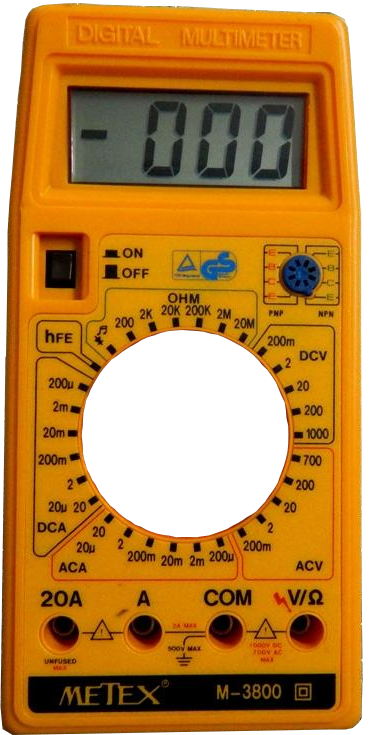
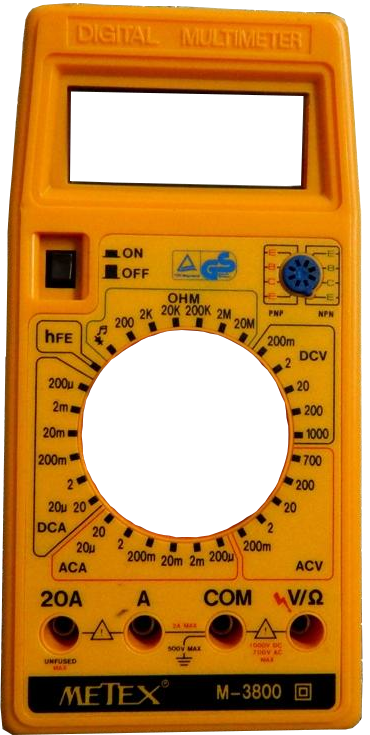
Added volts and amps display on mulimeters

Changed region(s): [[0.1784, 0.1197, 0.8324, 0.2694]]

diff --git a/frontend/static/js/index.js b/frontend/static/js/index.js
@@ -45,7 +45,20 @@ const multimeterMode = {
   10: { degree: 336, mode: "DCA 2m" },
   11: { degree: 348, mode: "DCA 200u" },
 };
-let rotationsKnob1 = 1;
+
+const knob1Voltage = {
+  0: { varistor: 0, photoresistor: 0 },
+  1: { varistor: 37.5, photoresistor: 1.5 },
+  2: { varistor: 37.5*2, photoresistor: 3 },
+  3: { varistor: 37.5*3, photoresistor: 5 },
+  4: { varistor: 37.5*4, photoresistor: 8 },
+  5: { varistor: 37.5*5, photoresistor: 11 },
+  6: { varistor: 37.5*6, photoresistor: 16 },
+  7: { varistor: 37.5*7, photoresistor: 20 },
+  8: { varistor: 300, photoresistor: 24 },
+};
+
+let rotationsKnob1 = 0;
 let rotationsKnob2 = 1;
 let rotationsMultimeterKnob1 = 1;
 let currentMode = mode[0];
@@ -53,11 +66,80 @@ let currentMultimeterMode = multimeterMode[0].mode;
 let rotationsMultimeterKnob2 = 1;
 let currentMultimeterMode2 = multimeterMode[0].mode;
 let chartInstance;
+let multimeterDisplay1 = document.getElementById("multimeter1-value");
+let multimeterDisplay2 = document.getElementById("multimeter2-value");
+let multimeter1Active = true;
+let multimeter2Active = true;
+let resistance = 1000;
+
+
+function getDisplayValue(currentMultimeterMode) {
+  if (currentMode === "OFF") return "OFF";
+  switch (currentMultimeterMode) {
+    case "OFF":
+      return "OFF";
+    case "DCV 200m":
+      return calculateDisplayValue(getVoltage(), 0.2, 3);
+    case "DCV 2":
+      return calculateDisplayValue(getVoltage(), 2, 3);
+    case "DCV 20":
+      return calculateDisplayValue(getVoltage(), 20, 2);
+    case "DCV 200":
+      return calculateDisplayValue(getVoltage(), 200, 1);
+    case "DCV 1000":
+      return calculateDisplayValue(getVoltage(), 1000, 0);
+    case "DCA 20":
+      return calculateDisplayValue(getVoltage()/resistance, 20, 1)
+    case "DCA 2":
+      return calculateDisplayValue(getVoltage()/resistance, 2, 2)
+    case "DCA 200m":
+      return calculateDisplayValue(getVoltage()/resistance, 0.2, 3)
+    case "DCA 20m":
+      return calculateDisplayValue(getVoltage()/resistance, 0.02, 3)
+    case "DCA 2m":
+      return calculateDisplayValue(getVoltage()/resistance, 0.002, 3)
+    case "DCA 200u":
+      return calculateDisplayValue(getVoltage()/resistance, 0.0002, 3)
+    default:
+      return 'OFF'
+  }
+}
+
+function calculateDisplayValue(value, range, fix){
+  if (value > range) return "0L";
+  return valueToFixed(value, fix);
+}
+
+function valueToFixed(value, fix) {
+  if (typeof value === 'number') return value.toFixed(fix);
+}
+
+function getVoltage() {
+  let voltage = "OFF";
+  if (currentMode === "PHOTORESISTOR") {
+    voltage = knob1Voltage[rotationsKnob1].photoresistor;
+  } else if (currentMode === "VARISTOR") {
+    voltage = knob1Voltage[rotationsKnob1].varistor;
+  }
+  console.log("Voltage:", voltage); // sprawdzanko
+  return voltage;
+}
+
+function updateMultimetersDisplay() {
+  if (multimeter1Active) {
+  multimeterDisplay1.textContent = getDisplayValue(currentMultimeterMode);
+  }
+  if (multimeter2Active) {
+  multimeterDisplay2.textContent = getDisplayValue(currentMultimeterMode2);
+  }
+}
 
 knob1.addEventListener("mousedown", () => {
-  knob1.style.transform = `rotate(${rotationsKnob1 * 45}deg)`;
-  if (rotationsKnob1 === 8) rotationsKnob1 = 1;
+  if (rotationsKnob1 === 8) rotationsKnob1 = 0;
   else rotationsKnob1++;
+  knob1.style.transform = `rotate(${270 + rotationsKnob1 * 22.5}deg)`;
+  console.log("Rotations knob1:", rotationsKnob1); // sprawdzanko
+  updateMultimetersDisplay();
 });
 
 knob2.addEventListener("mousedown", () => {
@@ -69,8 +151,8 @@ knob2.addEventListener("mousedown", () => {
     currentMode = mode[rotationsKnob2];
     rotationsKnob2++;
   }
-
   console.log("Current Mode:", currentMode); // sprawdzanko
+  updateMultimetersDisplay();
   updateChartByMode();
 });
 
@@ -83,6 +165,8 @@ multimeterKnob1.addEventListener("mousedown", () => {
     currentMultimeterMode = multimeterMode[rotationsMultimeterKnob1].mode;
     rotationsMultimeterKnob1++;
   }
+  updateMultimetersDisplay();
+  console.log("Current Multimeter1 Mode:", currentMultimeterMode);
 });
 multimeterKnob2.addEventListener("mousedown", () => {
   multimeterKnob2.style.transform = `rotate(${multimeterMode[rotationsMultimeterKnob2].degree}deg)`;
@@ -93,6 +177,8 @@ multimeterKnob2.addEventListener("mousedown", () => {
     currentMultimeterMode2 = multimeterMode[rotationsMultimeterKnob2].mode;
     rotationsMultimeterKnob2++;
   }
+  updateMultimetersDisplay();
+  console.log("Current Multimeter2 Mode:", currentMultimeterMode);
 });
 const ctx = document.getElementById("chart").getContext("2d");
 chartInstance = new Chart(ctx, {
@@ -184,15 +270,16 @@ function updateLedState() {
         checkbox.disabled = true;
       });
 
-    rotationsKnob1 = 1;
+    rotationsKnob1 = 0;
     rotationsKnob2 = 1;
     rotationsMultimeterKnob1 = 1;
     rotationsMultimeterKnob2 = 1;
 
-    knob1.style.transform = "rotate(0deg)";
+    knob1.style.transform = "rotate(270deg)";
     knob2.style.transform = "rotate(0deg)";
     multimeterKnob1.style.transform = "rotate(0deg)";
     multimeterKnob2.style.transform = "rotate(0deg)";
+    updateMultimetersDisplay();
   }
 
   knob1.style.pointerEvents = isNetworkOn ? "auto" : "none";

diff --git a/frontend/index.html b/frontend/index.html
@@ -4,6 +4,7 @@
     <meta charset="UTF-8" />
     <meta name="viewport" content="width=device-width, initial-scale=1.0" />
     <link rel="stylesheet" href="/static/css/index.css" />
+    <link href="https://fonts.cdnfonts.com/css/digital-7-mono" rel="stylesheet">
     <title>Półprzewodnikowe elementy</title>
   </head>
 
@@ -61,6 +62,7 @@
 
     <div class="stuffBox">
       <div class="imageOverlay">
+        <div class="multimeter-display" id="multimeter1-value">OFF</div>
         <img class="multimeter1" src="/static/img/multimeter_no_knob.png" />
         <img class="multimeterKnob1" src="/static/img/sknob.png" />
       </div>
@@ -70,6 +72,7 @@
       </div>
 
       <div class="imageOverlay">
+        <div class="multimeter-display" id="multimeter2-value">OFF</div>
         <img class="multimeter2" src="/static/img/multimeter_no_knob.png" />
         <img class="multimeterKnob2" src="/static/img/sknob.png" />
       </div>

diff --git a/frontend/static/css/index.css b/frontend/static/css/index.css
@@ -245,3 +245,21 @@ input:checked + .slider:before {
 .led.on {
   background-color: green;
 }
+
+.multimeter-display {
+  position: relative;
+  top: 10.25%; 
+  width: 70%;
+  left: 10%;
+  transform: none;
+  font-family: 'Digital-7 Italic', sans-serif;
+  font-size: 80px;
+  text-align: right;
+  margin-left: -5px;
+  color: black; 
+  background-color: #5c6657; 
+  padding: 5px;
+  border-radius: 5px;
+  display: block; 
+  margin-top: 5px; 
+}

diff --git a/server.js b/server.js
@@ -12,4 +12,4 @@ app.get("/*", (req, res) => {
   res.sendFile(path.resolve(__dirname, "frontend", "index.html"));
 });
 
-app.listen(process.env.PORT || 3060, () => console.log("Server running..."));
+app.listen(process.env.PORT || 3060, () => console.log("Server running at http://localhost:3060/"));
